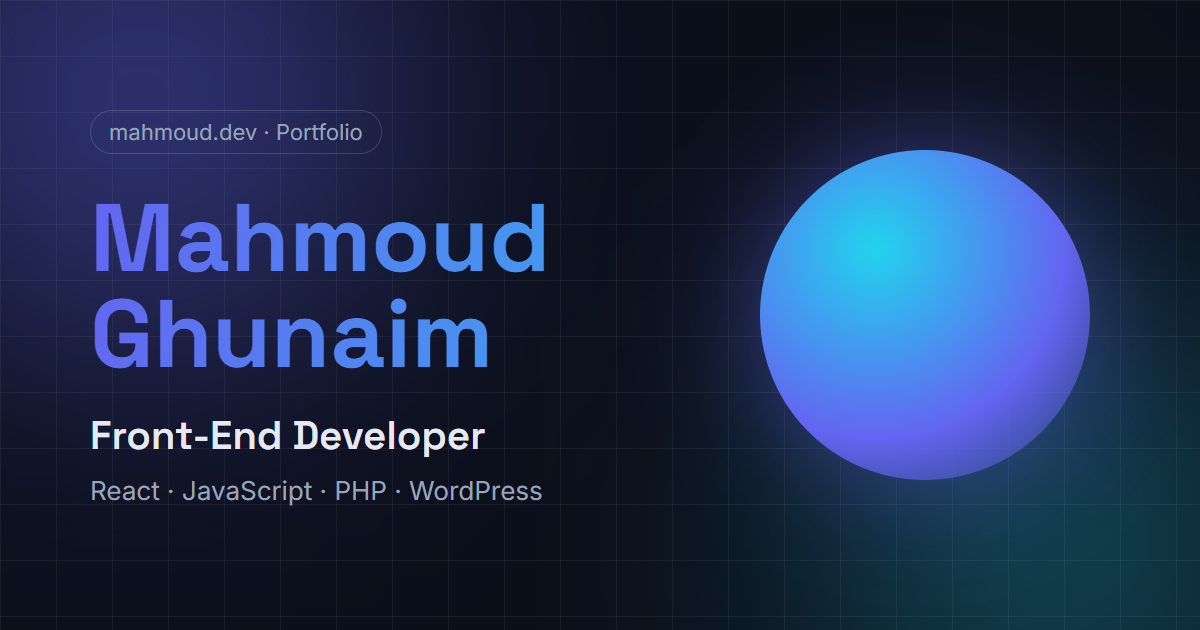
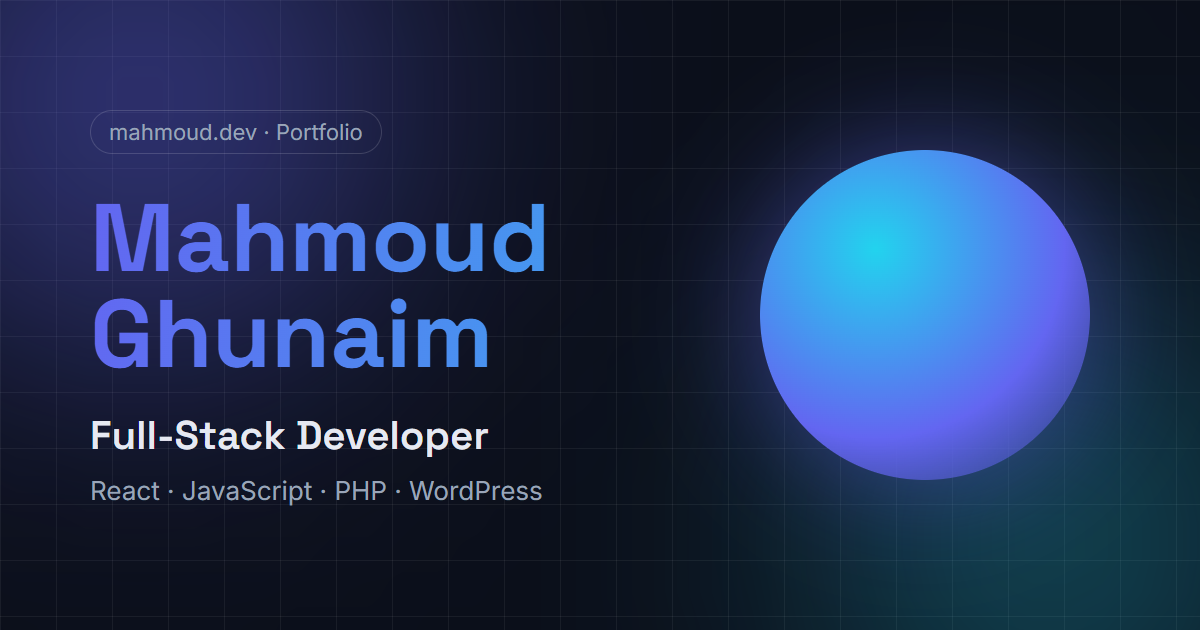
Change title to Full-Stack Developer
Update the headline, About text, SEO/Open Graph tags, structured data,
README and the Open Graph image.

Changed region(s): [[0.0925, 0.6635, 0.4008, 0.7238]]

diff --git a/index.html b/index.html
@@ -3,13 +3,13 @@
   <head>
     <meta charset="UTF-8" />
     <meta name="viewport" content="width=device-width, initial-scale=1.0, viewport-fit=cover" />
-    <title>Mahmoud Ghunaim — Front-End Developer</title>
+    <title>Mahmoud Ghunaim — Full-Stack Developer</title>
     <meta
       name="description"
-      content="Mahmoud Ghunaim — Front-End Developer based in Zarqa, Jordan. React, JavaScript, PHP & WordPress. Building fast, responsive, accessible web experiences."
+      content="Mahmoud Ghunaim — Full-Stack Developer based in Zarqa, Jordan. React, JavaScript, PHP & WordPress. Building fast, responsive, accessible web experiences."
     />
     <meta name="author" content="Mahmoud Ghunaim" />
-    <meta name="keywords" content="Mahmoud Ghunaim, Front-End Developer, React, JavaScript, PHP, WordPress, Jordan, Zarqa, Portfolio" />
+    <meta name="keywords" content="Mahmoud Ghunaim, Full-Stack Developer, React, JavaScript, PHP, WordPress, Jordan, Zarqa, Portfolio" />
     <meta name="theme-color" content="#0B0F1A" />
     <meta name="color-scheme" content="dark light" />
     <link rel="canonical" href="https://mahmoud-ghunaim.pages.dev/" />
@@ -17,7 +17,7 @@
     <!-- Open Graph / Twitter -->
     <meta property="og:type" content="website" />
     <meta property="og:site_name" content="Mahmoud Ghunaim" />
-    <meta property="og:title" content="Mahmoud Ghunaim — Front-End Developer" />
+    <meta property="og:title" content="Mahmoud Ghunaim — Full-Stack Developer" />
     <meta property="og:description" content="React, JavaScript, PHP & WordPress developer building fast, responsive, accessible web experiences." />
     <meta property="og:url" content="https://mahmoud-ghunaim.pages.dev/" />
     <meta property="og:image" content="https://mahmoud-ghunaim.pages.dev/og-image.png" />
@@ -26,7 +26,7 @@
     <meta property="og:locale" content="en_US" />
     <meta property="og:locale:alternate" content="ar_JO" />
     <meta name="twitter:card" content="summary_large_image" />
-    <meta name="twitter:title" content="Mahmoud Ghunaim — Front-End Developer" />
+    <meta name="twitter:title" content="Mahmoud Ghunaim — Full-Stack Developer" />
     <meta name="twitter:description" content="React, JavaScript, PHP & WordPress developer building fast, responsive, accessible web experiences." />
     <meta name="twitter:image" content="https://mahmoud-ghunaim.pages.dev/og-image.png" />
 
@@ -64,7 +64,7 @@
         "@context": "https://schema.org",
         "@type": "Person",
         "name": "Mahmoud Ghunaim",
-        "jobTitle": "Front-End Developer",
+        "jobTitle": "Full-Stack Developer",
         "email": "mailto:mahmoudghunaim132@gmail.com",
         "address": { "@type": "PostalAddress", "addressLocality": "Zarqa", "addressCountry": "JO" },
         "alumniOf": "Zarqa University",
@@ -76,7 +76,7 @@
     <div id="root"></div>
     <noscript>
       <p style="padding: 2rem; font-family: sans-serif">
-        Mahmoud Ghunaim — Front-End Developer. Email: mahmoudghunaim132@gmail.com
+        Mahmoud Ghunaim — Full-Stack Developer. Email: mahmoudghunaim132@gmail.com
       </p>
     </noscript>
     <script type="module" src="/src/main.tsx"></script>

diff --git a/src/data/profile.ts b/src/data/profile.ts
@@ -7,7 +7,7 @@ import type { Localized } from '../i18n/types';
 export const profile = {
   name: { en: 'Mahmoud Ghunaim', ar: 'محمود غنيم' } satisfies Localized,
   initials: 'MG',
-  role: { en: 'Front-End Developer', ar: 'مطوّر واجهات أمامية' } satisfies Localized,
+  role: { en: 'Full-Stack Developer', ar: 'مطوّر Full-Stack' } satisfies Localized,
   tagline: {
     en: 'I craft fast, responsive and accessible web experiences with React, JavaScript and PHP — and I use AI tools to ship them faster.',
     ar: 'أصمّم تجارب ويب سريعة ومتجاوبة وسهلة الوصول باستخدام React وJavaScript وPHP — وأستعين بأدوات الذكاء الاصطناعي لإنجازها بشكل أسرع.',
@@ -15,11 +15,11 @@ export const profile = {
 
   about: {
     en: [
-      'I am a motivated, fast-learning Front-End Developer with hands-on experience in React, PHP and JavaScript. I enjoy turning designs into smooth, dynamic interfaces and wiring them to real data through REST APIs.',
+      'I am a motivated, fast-learning Full-Stack Developer with hands-on experience in React, PHP and JavaScript. I enjoy turning designs into smooth, dynamic interfaces and wiring them to real data through REST APIs.',
       'I care about performance optimization and clean collaboration in Agile teams, and I am passionate about using AI tools to improve development efficiency and problem-solving.',
     ],
     ar: [
-      'مطوّر واجهات أمامية متحمّس وسريع التعلّم، أمتلك خبرة عملية في React وPHP وJavaScript. أستمتع بتحويل التصاميم إلى واجهات سلسة وديناميكية وربطها بالبيانات الحقيقية عبر واجهات REST API.',
+      'مطوّر Full-Stack متحمّس وسريع التعلّم، أمتلك خبرة عملية في React وPHP وJavaScript. أستمتع بتحويل التصاميم إلى واجهات سلسة وديناميكية وربطها بالبيانات الحقيقية عبر واجهات REST API.',
       'أهتم بتحسين الأداء والعمل الجماعي ضمن فرق Agile، وشغوف باستخدام أدوات الذكاء الاصطناعي لرفع كفاءة التطوير وحل المشكلات.',
     ],
   } satisfies Localized<string[]>,

diff --git a/README.md b/README.md
@@ -1,6 +1,6 @@
 # Mahmoud Ghunaim — Portfolio
 
-Personal portfolio for **Mahmoud Ghunaim**, Front-End Developer.
+Personal portfolio for **Mahmoud Ghunaim**, Full-Stack Developer.
 Single-page site with an interactive 3D hero, Lottie animations, English/Arabic (full RTL) and dark/light themes.
 
 **Stack:** Vite · React 19 · TypeScript · Tailwind CSS 4 · Framer Motion · @react-three/fiber + drei · dotLottie
